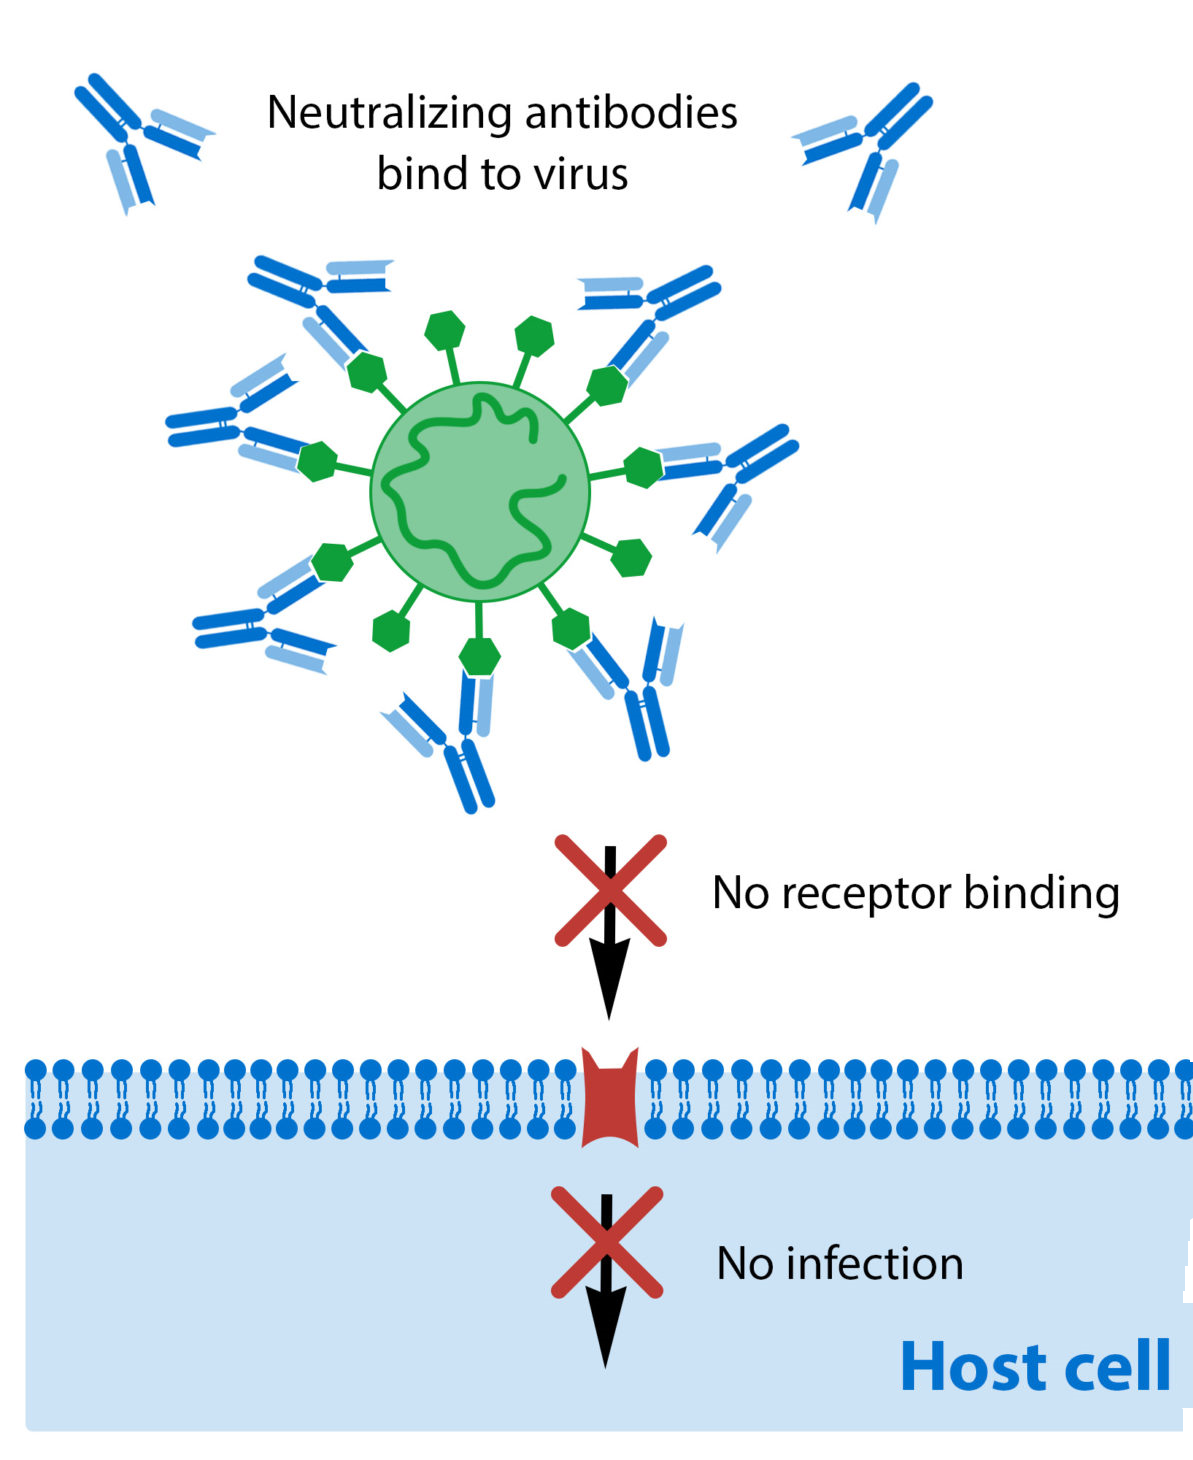
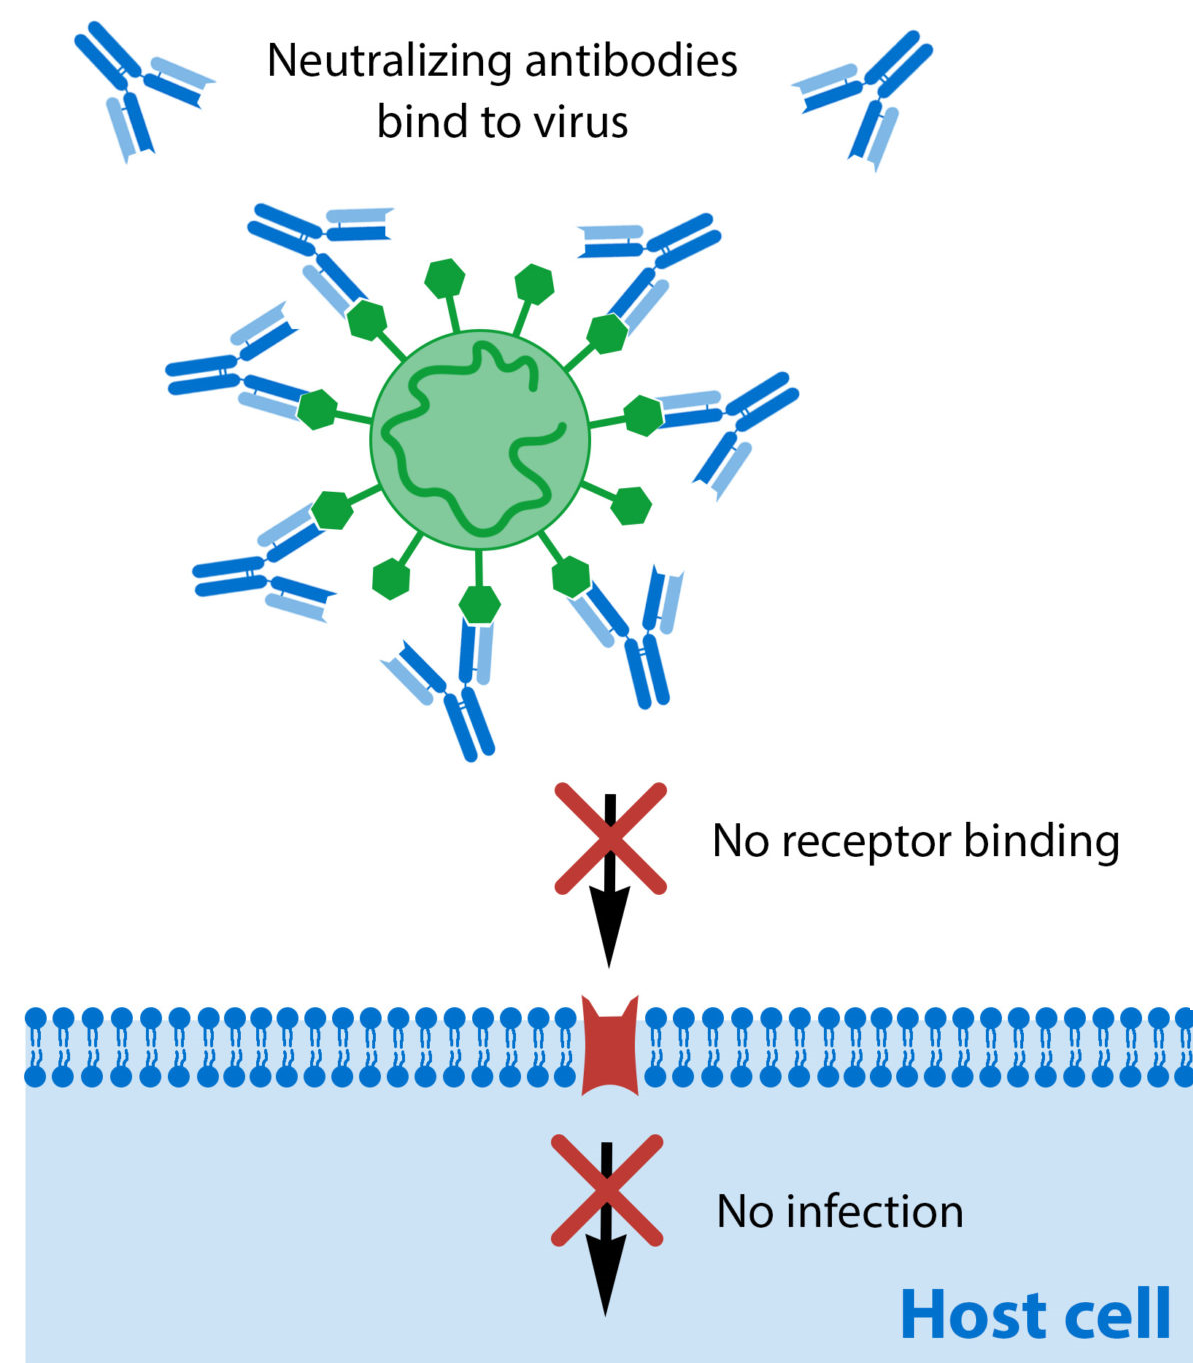
Antigen neutralization

diff --git a/Rapport/sections/2.1_mechanisms_of_action.tex b/Rapport/sections/2.1_mechanisms_of_action.tex
@@ -4,6 +4,29 @@ a pathogen infection. There are four of them, complementary of each other.
 
 \subsubsection{Antigen neutralization}
 
+\begin{figure}[H]
+    \begin{minipage}{0.55\textwidth}
+        The most simple way antibodies can act against a pathogen is by
+        \emph{neutralization} : the antibodies specific to an epitope of the
+        antigen bind to this epitope and form together a complex that surround
+        the pathogen \cite{langermans_antimicrobial_1994}.
+        It is thus geometrically prevented to act as it normally would 
+        by infecting the nearby cells.
+
+        Antibodies acting in this manner are called \emph{neutralizing antibodies}
+        or NAbs. The neutralized pathogen cannot approach the cell and
+        bind to its surface receptors, thus making it ineffective. 
+        The resulting complex can then be eliminated.
+    \end{minipage}\hfill
+    \begin{minipage}{0.35\textwidth}
+        \centering
+        \includegraphics[width=\textwidth]{../Images/neutralization.png}   
+        \caption{Neutralization of a pathogen by antibodies}
+        \label{fig:neutralization}
+    \end{minipage}
+\end{figure}
+
+
 \subsubsection{Phagocyte recruitment}
 
 \subsubsection{Antibody Dependent Cell Cytotoxicity}
